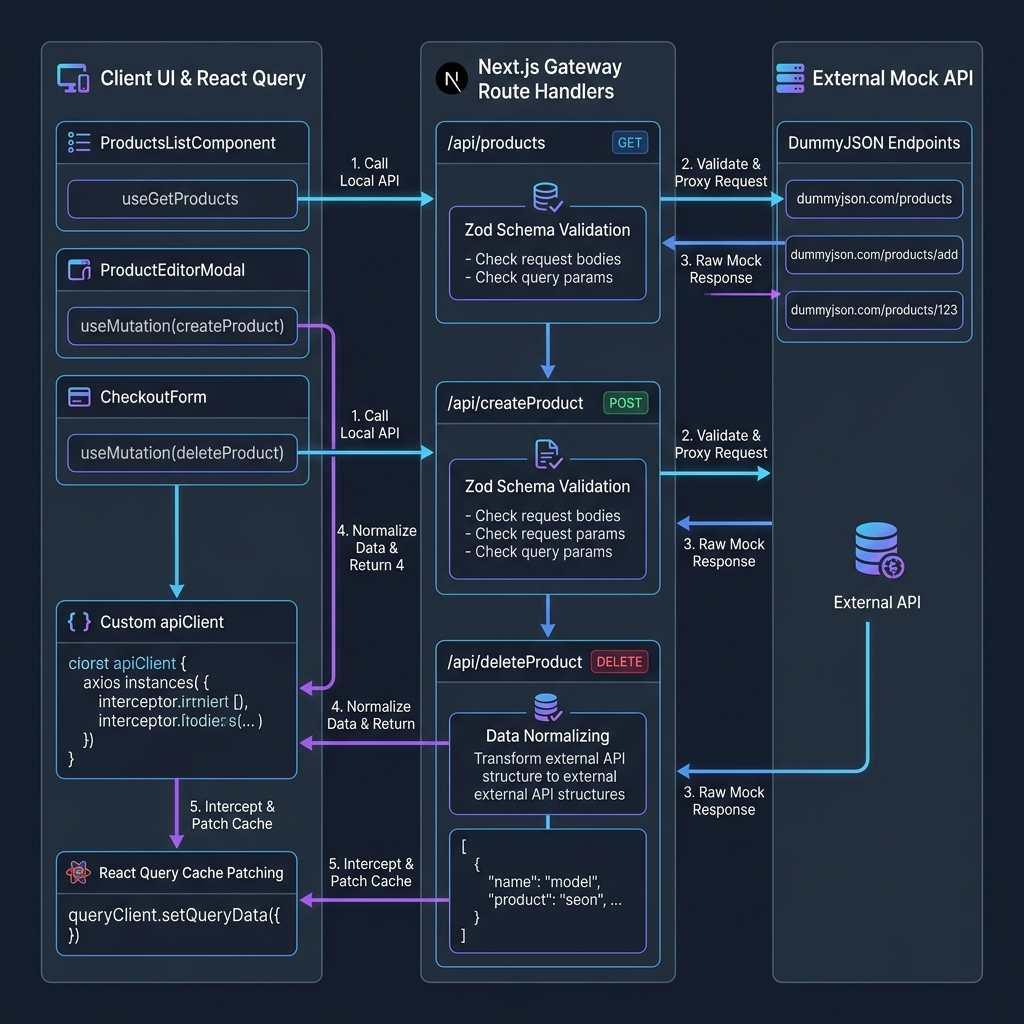
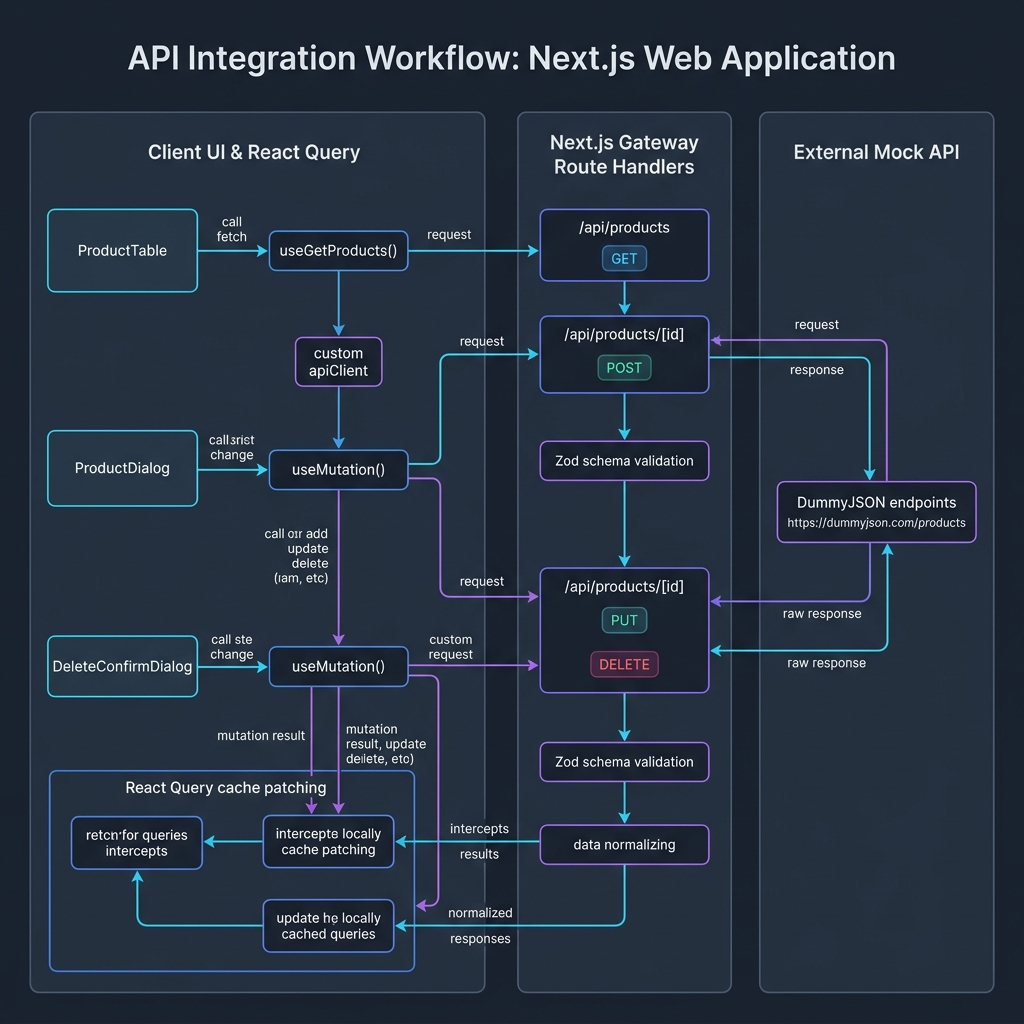
documentation

Changed region(s): [[0.0312, 0.0312, 0.9688, 0.9688]]

diff --git a/README.md b/README.md
@@ -1,36 +1,76 @@
-This is a [Next.js](https://nextjs.org) project bootstrapped with [`create-next-app`](https://nextjs.org/docs/app/api-reference/cli/create-next-app).
+# AuraStore - Next.js API Integration Dashboard
 
-## Getting Started
+AuraStore is a modern, high-performance, and responsive inventory management dashboard built on Next.js. It implements type-safe, real-time CRUD operations, type-safe query parameter state synchronization, and a custom stateless API gateway architecture.
 
-First, run the development server:
+---
 
+## 🏗️ Architecture & API Integration Workflow
+
+AuraStore uses a two-tier backend architecture: a local **Next.js Gateway** bridging the client application with an **External API** (DummyJSON). This design ensures security, query optimization, and schema mapping.
+
+### API Integration Flowchart
+The following diagram illustrates the flow of data, API boundaries, Zod schema validation points, and client-side cache updates:
+
+![API Integration Flowchart](./api_workflow_flowchart.png)
+
+### Data Flow Overview
+
+1. **Query Parameters & Routing**:
+   Filters, searching, and pagination state are managed via `nuqs` as URL search parameters. Changing a search term or page number automatically updates the URL query string.
+2. **React Query Fetching**:
+   The URL search parameters trigger the [useGetProducts](file:///f:/Personal%20Work/Rakib%20vai/api-integration/src/hooks/use-products.ts#L23) hook. React Query resolves its key dependencies and invokes the [apiClient](file:///f:/Personal%20Work/Rakib%20vai/api-integration/src/lib/api-client.ts) to send a request to the local API endpoint (`/api/products?q=...&page=...`).
+3. **Next.js API Gateway (Server-side)**:
+   The local Next.js Route Handler ([route.ts](file:///f:/Personal%20Work/Rakib%20vai/api-integration/src/app/api/products/route.ts)):
+   - Receives the request and validates parameters.
+   - Triggers server-side fetch from the external DummyJSON API (`https://dummyjson.com/products`).
+   - Maps raw JSON data to the Zod validated schema (handling custom stable UUID generation).
+   - Resolves sorting, searching, and pagination logic before returning the refined dataset back to the browser.
+4. **Stateless Mutating & Client Cache Patching**:
+   - Because mock external APIs (like DummyJSON) are stateless and do not persist writes (e.g. newly created products are lost on subsequent requests), mutations are simulated by **patching the React Query cache in place**.
+   - Upon a successful POST/PUT/DELETE response, the mutations (`useCreateProduct`, `useUpdateProduct`, `useDeleteProduct`) intercept the cached queries and use `queryClient.setQueriesData` to prepend, update, or filter the local cached lists dynamically. This guarantees that user changes persist throughout their session without triggering cache invalidation cycles that would reset the data.
+
+---
+
+## 🛠️ Technology Stack & Library Briefs
+
+Here is an overview of the core libraries selected for this project and the reasons for their inclusion:
+
+### Core Framework & Routing
+* **Next.js 16 (App Router)**: Provides high-performance server-side rendering, layout optimization, static generation, and unified backend API route endpoints.
+
+### State & Cache Syncing
+* **Zustand**: A lightweight, fast, and simple state-management hook. Used to declare feature-based UI states like view configuration (grid vs table) and form dialog triggers.
+* **TanStack React Query**: Manages asynchronous server state, automated loading indications, deduplication of requests, and complex caching strategies.
+* **Nuqs**: Provides type-safe hooks for syncing React state with URL search parameters (like filters and pagination pages), making states completely bookmarkable.
+
+### Forms & Validation
+* **Zod**: A TypeScript-first schema declaration and validation library. It is used to define the core `Product` data contracts, validating inputs on the client before submission, and securing the Next.js backend endpoints during request parsing.
+* **React Hook Form**: Minimizes form re-renders and coordinates validation. Uses the `@hookform/resolvers` adapter to integrate validation schemas directly from Zod.
+
+### Design & Aesthetics
+* **Shadcn UI**: A collection of beautifully designed, accessible components built using Radix UI and Tailwind CSS, providing the foundation for our dialogs, dropdowns, tables, and buttons.
+* **Framer Motion**: Delivers smooth fluid micro-animations for grid layout cards, loader skeletons, and slide-out panels.
+* **Tailwind CSS**: A utility-first CSS framework for custom premium layout styling, support for HSL color variables, and layout responsiveness.
+* **Sonner**: An elegant toast notification engine with rich animation styles and context status feedback.
+* **Lucide React**: Out-of-the-box vector icon utilities.
+
+---
+
+## 🚀 Getting Started
+
+### 1. Install Dependencies
 ```bash
-npm run dev
-# or
-yarn dev
-# or
-pnpm dev
-# or
-bun dev
+npm install
 ```
 
-Open [http://localhost:3000](http://localhost:3000) with your browser to see the result.
+### 2. Run the Development Server
+```bash
+npm run dev
+```
+Open [http://localhost:3000](http://localhost:3000) in your browser.
 
-You can start editing the page by modifying `app/page.tsx`. The page auto-updates as you edit the file.
-
-This project uses [`next/font`](https://nextjs.org/docs/app/building-your-application/optimizing/fonts) to automatically optimize and load [Geist](https://vercel.com/font), a new font family for Vercel.
-
-## Learn More
-
-To learn more about Next.js, take a look at the following resources:
-
-- [Next.js Documentation](https://nextjs.org/docs) - learn about Next.js features and API.
-- [Learn Next.js](https://nextjs.org/learn) - an interactive Next.js tutorial.
-
-You can check out [the Next.js GitHub repository](https://github.com/vercel/next.js) - your feedback and contributions are welcome!
-
-## Deploy on Vercel
-
-The easiest way to deploy your Next.js app is to use the [Vercel Platform](https://vercel.com/new?utm_medium=default-template&filter=next.js&utm_source=create-next-app&utm_campaign=create-next-app-readme) from the creators of Next.js.
-
-Check out our [Next.js deployment documentation](https://nextjs.org/docs/app/building-your-application/deploying) for more details.
+### 3. Build for Production
+To trigger TypeScript checks, lint checks, and the production compiler:
+```bash
+npm run build
+```